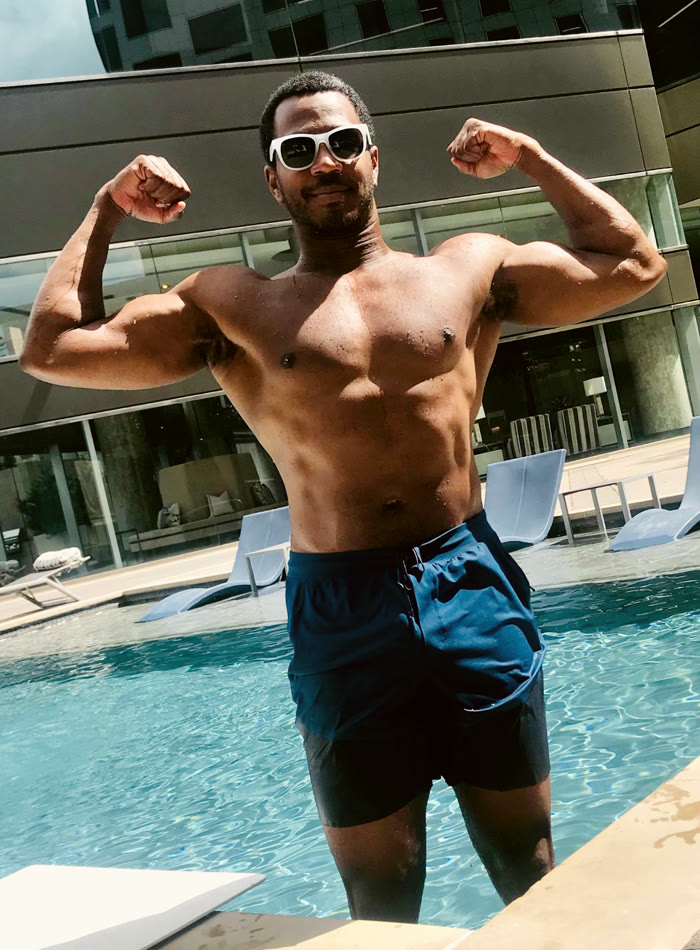
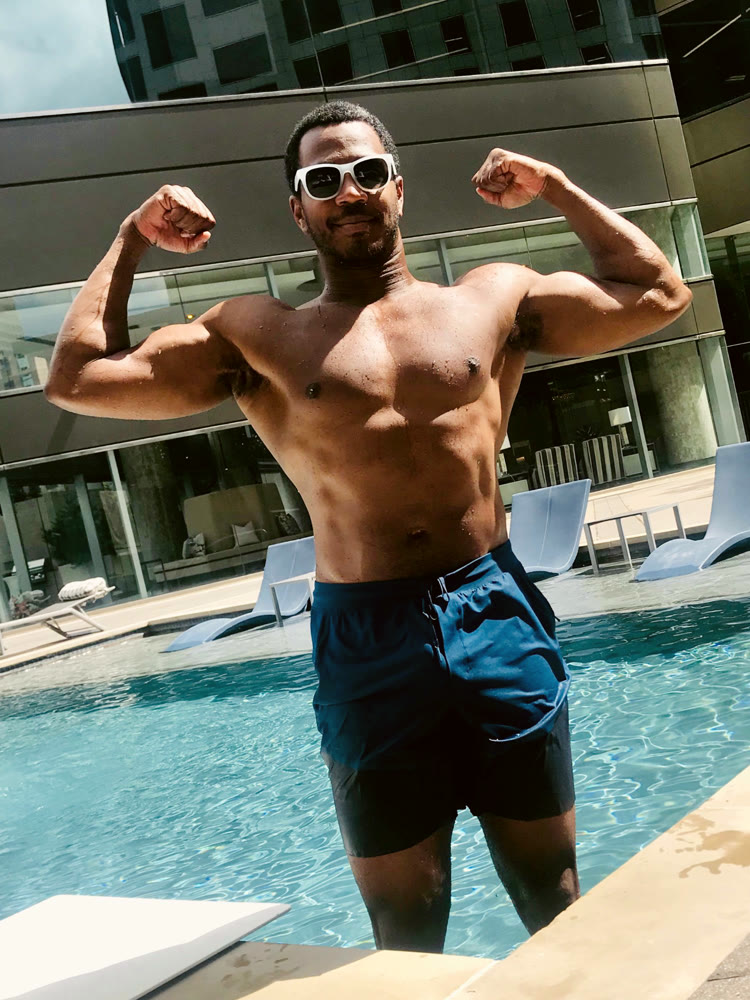
Copy edits, taller before/after diptychs, brighter About, new Wes S. chart
Copy: reworded the hero subhead (10-year NASM-certified trainer instead of
"broke his own plateau"), softened the Studio lede since the gym does have
racks/mirrors (now "no fancy fad equipment, just simple and effective"),
and dropped the per-photo technique labels in the Recovery gallery.

Sizing: fixed a CSS quirk where nested aspect-ratio boxes inside a
non-stretching grid item were silently shrinking below their track size
(found while trying to match the About/Results before-after diptychs to
the Studio video height) — moved the aspect-ratio onto .compare-card
itself and reset the default <figure> margins that were eating 40px per
side. Rico's and Jane's diptychs are now sized to match the Studio video
cards. Re-exported Rico's "after" photo without the tighter pre-crop so
the taller frame doesn't clip his arms.

Brightness: added a distinct --about-surface tone, clearly lighter than
the surrounding dark sections, both per your direct ask and to separate
About from the Results section below it.

Results: added a third client chart (Wes S. — 4 lifts plus a strong body-
recomp story) recalculated from his lb values the same way Megan's was.
Left out the other three you sent: Anushka (only 2 lifts, more modest
gains), Juliana (her numbers are a goal/target, not achieved results, which
doesn't fit "on the record"), and Amanda B. (only 3 lifts, smaller story) —
happy to add any of them back if you'd rather include them.
[…]

diff --git a/index.html b/index.html
@@ -71,7 +71,7 @@
         <span class="line" data-line>how <em>strong</em> you really are.</span>
       </h1>
       <p class="hero-sub reveal-up" data-anim="fade">
-        Built by a NASM-certified coach who broke his own plateau &mdash; personal strength coaching
+        Built by a 10-year NASM-certified fitness trainer &mdash; personal strength coaching
         and therapeutic Thai bodywork, one Phoenix studio, one standard.
       </p>
 
@@ -261,7 +261,7 @@
         <h2>Train where it's <span class="accent-underline">built for it.</span></h2>
         <p class="section-lede">
           Barbells, plates, and a full strength rig on real training turf &mdash; no
-          treadmill rows, no mirrors-and-machines box gym. This is where the actual
+          fancy fad equipment, just simple and effective. This is where the actual
           work happens: progressive loading, heavy pulls, and the reps that build
           real strength.
         </p>
@@ -320,19 +320,16 @@
         <img src="assets/images/bodywork/bodywork-tricep-stretch.jpg"
           alt="Assisted tricep stretch during a Thai bodywork session"
           loading="lazy" width="1200" height="1600">
-        <figcaption>Tricep Stretch</figcaption>
       </figure>
       <figure class="reveal">
         <img src="assets/images/bodywork/bodywork-kneel-pray.jpg"
           alt="Kneel and pray Thai bodywork stretch technique"
           loading="lazy" width="1200" height="1600">
-        <figcaption>Kneel &amp; Pray</figcaption>
       </figure>
       <figure class="reveal">
         <img src="assets/images/bodywork/bodywork-trap-peddle.jpg"
           alt="Trap peddle Thai bodywork stretch technique"
           loading="lazy" width="1200" height="1600">
-        <figcaption>Trap Peddle</figcaption>
       </figure>
     </div>
   </section>
@@ -556,6 +553,89 @@
                 <span class="result-bar-tag">Now</span>
                 <div class="result-bar-track"><div class="result-bar-fill result-bar-fill--current" style="width:100%"></div></div>
                 <span class="result-bar-value">85 lbs</span>
+              </div>
+            </div>
+          </div>
+        </div>
+
+        <div class="result-card reveal">
+          <div class="result-card-head">
+            <span class="result-name">Wes S.</span>
+            <span class="result-tag">Lost 20 lbs &amp; 5% body fat</span>
+          </div>
+
+          <div class="result-row">
+            <div class="result-row-head">
+              <span class="result-lift">Deadlift</span>
+              <span class="result-gain">+30%</span>
+            </div>
+            <div class="result-bars">
+              <div class="result-bar-line">
+                <span class="result-bar-tag">Start</span>
+                <div class="result-bar-track"><div class="result-bar-fill result-bar-fill--start" style="width:77%"></div></div>
+                <span class="result-bar-value">135 lbs</span>
+              </div>
+              <div class="result-bar-line">
+                <span class="result-bar-tag">Now</span>
+                <div class="result-bar-track"><div class="result-bar-fill result-bar-fill--current" style="width:100%"></div></div>
+                <span class="result-bar-value">175 lbs</span>
+              </div>
+            </div>
+          </div>
+
+          <div class="result-row">
+            <div class="result-row-head">
+              <span class="result-lift">Back Squat</span>
+              <span class="result-gain">+71%</span>
+            </div>
+            <div class="result-bars">
+              <div class="result-bar-line">
+                <span class="result-bar-tag">Start</span>
+                <div class="result-bar-track"><div class="result-bar-fill result-bar-fill--start" style="width:59%"></div></div>
+                <span class="result-bar-value">85 lbs</span>
+              </div>
+              <div class="result-bar-line">
+                <span class="result-bar-tag">Now</span>
+                <div class="result-bar-track"><div class="result-bar-fill result-bar-fill--current" style="width:100%"></div></div>
+                <span class="result-bar-value">145 lbs</span>
+              </div>
+            </div>
+          </div>
+
+          <div class="result-row">
+            <div class="result-row-head">
+              <span class="result-lift">Shoulder Press</span>
+              <span class="result-gain">+31%</span>
+            </div>
+            <div class="result-bars">
+              <div class="result-bar-line">
+                <span class="result-bar-tag">Start</span>
+                <div class="result-bar-track"><div class="result-bar-fill result-bar-fill--start" style="width:76%"></div></div>
+                <span class="result-bar-value">65 lbs</span>
+              </div>
+              <div class="result-bar-line">
+                <span class="result-bar-tag">Now</span>
+                <div class="result-bar-track"><div class="result-bar-fill result-bar-fill--current" style="width:100%"></div></div>
+                <span class="result-bar-value">85 lbs</span>
+              </div>
+            </div>
+          </div>
+
+          <div class="result-row">
+            <div class="result-row-head">
+              <span class="result-lift">Bench Press</span>
+              <span class="result-gain">+26%</span>
+            </div>
+            <div class="result-bars">
+              <div class="result-bar-line">
+                <span class="result-bar-tag">Start</span>
+                <div class="result-bar-track"><div class="result-bar-fill result-bar-fill--start" style="width:79%"></div></div>
+                <span class="result-bar-value">95 lbs</span>
+              </div>
+              <div class="result-bar-line">
+                <span class="result-bar-tag">Now</span>
+                <div class="result-bar-track"><div class="result-bar-fill result-bar-fill--current" style="width:100%"></div></div>
+                <span class="result-bar-value">120 lbs</span>
               </div>
             </div>
           </div>

diff --git a/css/styles.css b/css/styles.css
@@ -22,6 +22,10 @@
 
   --on-rust: #16120f;
 
+  /* Elevated dark tone for the About section — brighter than --surface, to
+     read as a distinct, lighter band against the sections above/below it. */
+  --about-surface: #3c2f24;
+
   /* Paper: warm off-white section treatment for rhythm/contrast against the
      dark theme — limestone/bone tone, not stark white, to stay premium. */
   --paper: #efe9dd;
@@ -209,7 +213,9 @@ section[id], article[id] {
    Compare card (before/after diptych)
    ========================================================================== */
 .compare-card {
-  display: flex;
+  display: grid;
+  grid-template-columns: 1fr 1fr;
+  aspect-ratio: 9 / 8;
   border-radius: var(--radius-lg);
   overflow: hidden;
   border: 1px solid var(--border);
@@ -217,8 +223,9 @@ section[id], article[id] {
 }
 .compare-half {
   position: relative;
-  flex: 1 1 50%;
-  aspect-ratio: 3 / 4;
+  width: 100%;
+  height: 100%;
+  margin: 0;
   overflow: hidden;
 }
 .compare-half + .compare-half { border-left: 2px solid var(--rust); }
@@ -263,10 +270,11 @@ section[id], article[id] {
 }
 .transform-grid {
   display: grid;
-  grid-template-columns: repeat(auto-fit, minmax(280px, 460px));
+  grid-template-columns: repeat(auto-fit, minmax(300px, 600px));
   justify-content: center;
   gap: var(--space-4);
 }
+.transform-grid figure { margin: 0; }
 .transform-block { margin-top: var(--space-6); text-align: center; }
 .transform-block h3 {
   font-size: clamp(1.4rem, 2.6vw, 1.9rem);
@@ -984,11 +992,11 @@ section[id], article[id] {
    ========================================================================== */
 .about {
   padding: var(--space-7) 0;
-  background: linear-gradient(180deg, transparent, var(--surface) 20%, var(--surface) 80%, transparent);
+  background: linear-gradient(180deg, transparent, var(--about-surface) 20%, var(--about-surface) 80%, transparent);
 }
 .about-grid {
   display: grid;
-  grid-template-columns: 480px 1fr;
+  grid-template-columns: 600px 1fr;
   gap: var(--space-6);
   align-items: center;
 }
@@ -996,7 +1004,7 @@ section[id], article[id] {
   .about-grid { grid-template-columns: 1fr; gap: var(--space-5); }
 }
 
-.about-portrait { width: 100%; max-width: 480px; margin: 0 auto; }
+.about-portrait { width: 100%; max-width: 600px; margin: 0 auto; }
 
 .about-copy h2 { margin-bottom: var(--space-3); }
 .about-copy p { max-width: 60ch; }